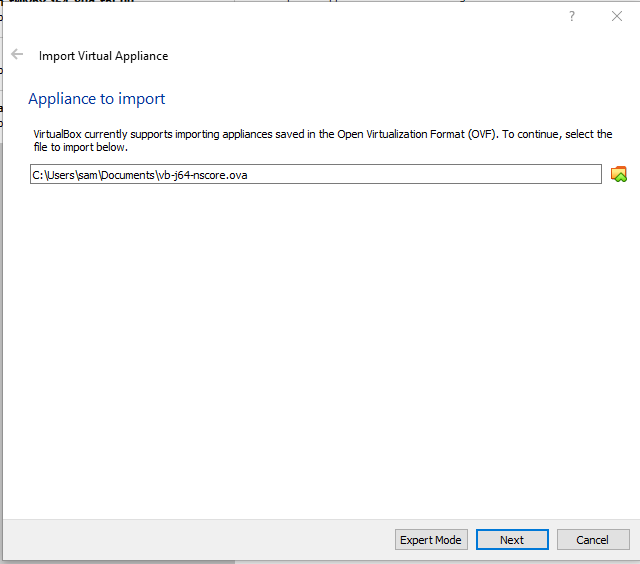
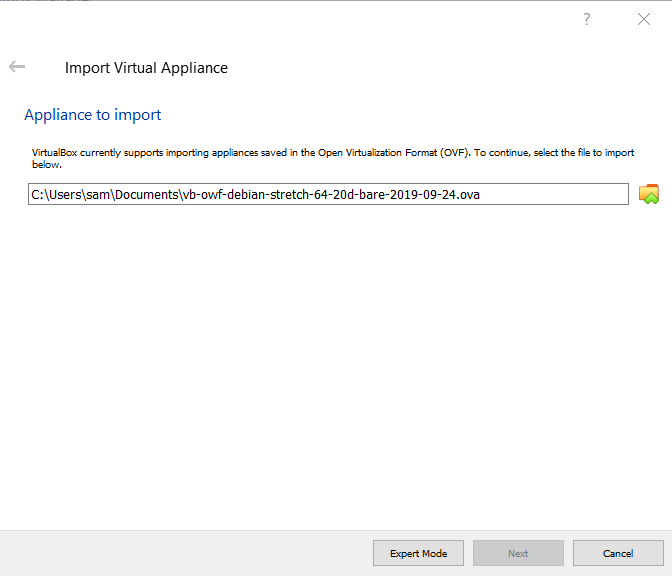
Update to improve appliance import/setup, issue #11

Changed region(s): [[0.0, 0.0, 1.0, 1.0]]

diff --git a/mkdocs-project/docs/vm-config/linux-debian/config-debian.md b/mkdocs-project/docs/vm-config/linux-debian/config-debian.md
@@ -1,11 +1,19 @@
 # VirtualBox / Debian / Configuration #
 
-This page describes minimal configuration that is typically needed for a Linux Debian VM.
+This page describes minimal configuration that is typically needed for a Linux Debian VM
+a single VM user, for example a software developer/tester.
 These steps are performed after an appliance VM is imported.
+It is helpful to configure the VM for a user with as much general configuration as
+possible and then take a snapshot so that the VM can be returned to that state
+if necessary.  If the VM is used for multiple users,
+then a similar approach can be taken and the resulting VM can be exported as a new appliance for wider use.
 
 * [Set Hostname](#set-hostname)
 * [Add User](#add-user)
 * [Install Needed Software](#install-needed-software)
+* [Configure VM for User](#configure-vm-for-user)
+* [Save Snapshot](#save-snapshot)
+* [Additional Configuration](#additional-configuration)
 
 -----------------------
 
@@ -43,33 +51,106 @@ $ hostname
 
 ## Add User
 
-A bare appliance will be distributed with a `root` and other user, as configured by the Linux installation.
-The latter is typically added to the `sudo` group when preparing the appliance
+A bare appliance will be distributed with a `root` and "other user",
+as configured when the VM was configured for an appliance.
+The "other user" is typically added to the `sudo` group when preparing the appliance
 so that administrative tasks can be performed
 using the `sudo` command without logging into root.
-The following example shows how to add a new user `auser` and add to the `sudo` group:
+The root password and information for the "other user" will be provided
+by the creator of the appliance.
+
+The following example shows how to add an additional new user `someuser` and add to the `sudo` group.
+This ensures that the `someuser` can be used for development without
+using the `root` or "other user" that was originally distributed with the VM appliance.
 
 To add a user:
 
 * Login as root or account that has `sudo` privileges.
-* `$ sudo adduser auser`
-	+ in the above `auser` is the login name for the new user
-	+ the command will prompt for additional information
-* `$ sudo adduser auser sudo`
-	+ in the above `auser` is the login name for the new user
+* `$ sudo adduser someuser`
+	+ in the above `someuser` is the login name for the new user
+	+ the command will prompt for additional information including the user name
 
-Once added, the `auser` user account can be used to run commands as root using:
+To additionally grant `sudo` privileges to the user:
+
+* `$ sudo adduser someuser sudo`
+	+ in the above `someuser` is the login name for the new user
+* Logout and log back in so that the Linux session recognizes
+that the user is in the `sudo` group.
+
+Once added, the `someuser` user account can be used to run commands as root using:
 
 ```
 $ sudo some-command
 ```
 
-## Install Needed Software
+## Install Needed Software ##
 
 The VM appliance will have minimal software installed, depending on the requirements for the VM.
 Additional software will need to be installed using `apt-get`.
 For example, to install the `gcc` compiler:
 
 ```
+$ sudo apt-get update
 $ sudo apt-get install gcc
 ```
+
+The first command updates the catalog of software packages and versions,
+so that `apt` commands has up-to-date information to manage software installations.
+
+The following are typical software tools that may be installed during VM configuration
+so that they don't need to be reinstalled after restoring a snapshot.
+Note that these software packages will typically be installed in the system files
+(e.g., `/usr/bin`), whereas the next section describes files that are installed in
+user files (e.g., for the single user that uses the VM for software development).
+Alternatively, the packages can be installed after a more basic snapshot
+is restored.
+
+| **`apt-get` Software Package** | **Description** |
+| -- | -- |
+| `gcc` | C language compiler, used to compile many software tools. |
+| `git` | Version control software. | 
+| `kdiff3` | Software to visually compare differences between files. |
+| `openjdk-8-jdk` | Java 8 standard development kit (or alternate version). |
+
+## Configure VM for User ##
+
+The previous section discussed installing useful software on the VM,
+typically that is needed for one or more software development projects.
+It may also be useful to configure a specific user environment so that such
+configuration is available after a snapshot restore.
+The following is a list of configuration tasks that might be performed.
+
+1. Configure `vim` text editor (or other editor):
+	1. Install a `~/.vimrc` file that has preferred settings
+2. Configure terminal settings:
+	1. For example, after opening a terminal, use
+	***Edit / Profile Preferences / Colors*** and pick a suitable color theme
+	such as ***White on black***.
+	2. Configure screen saver
+3. Configure `~/.bashrc` and `~/.bash_profile`:
+	1. For example add Git prompt and Git completion
+	2. Add configuration for specific development tools
+	3. Define useful command aliases
+4. Configure shared folders for VM:
+	1. See [Shared Folder](../../vm-settings/shared-folders/shared-folders.md) instructions.
+
+## Save Snapshot ##
+
+Once the VM has been configured by installing and configuring system software and
+user environment, a snapshot can be made to preserve the state of the machine.
+This allows the snapshot to be restored to that point,
+for example if the machine has become cluttered with files or corrupted with non-working software.
+See the [Snapshots](../../snapshots/snapshots.md)
+documentation for information on creating and restoring snapshots.
+
+## Additional Configuration ##
+
+The previous sections discuss how to configure system and user files and save a snapshot for
+the basic configuration.
+Once a snapshot has been created, additional configuration may occur.
+For example, clone Git repositories and set up a specific development environment for software project(s).
+For example, for Java development, this may involve installing Java, Eclipse, and other tools
+consistent with the versions needed for the software project.
+These steps can be automated with scripts in the software product repository.
+
+Additional snapshots can be created for different states of the VM, as appropriate.

diff --git a/mkdocs-project/docs/snapshots/snapshots.md b/mkdocs-project/docs/snapshots/snapshots.md
@@ -1,0 +1,78 @@
+# VirtualBox / Snapshots #
+
+* [Overview](#overview)
+* [Saving a Snapshot](#saving-a-snapshot)
+* [Restoring a Snapshot](#restoring-a-snapshot)
+
+------------------
+
+## Overview ##
+
+A VM snapshot is a saved representation of the VM state,
+which allows the VM to be restored to that state.
+This is particularly useful when the work done on a VM after a point can be discarded.
+For example, when testing a software installer prior to software release,
+a VM may be restored to an initial state and then the installer is run and tested.
+
+## Saving a Snapshot ##
+
+To save a snapshot, it is generally best to stop the VM so that files are not actively being modified.
+Then click on the menu on the right side of the VM name in ***VirtualBox Manager*** as shown below and
+select ***Snapshots***.
+
+**<p style="text-align: center;">
+![save-snapshot1](images/save-snapshot1.png)
+</p>**
+
+**<p style="text-align: center;">
+Save (Take) a Snapshot (<a href="../images/save-snapshot1.png">see full-size image</a>)
+</p>**
+
+Next, provide a snapshort name and description, similar to the following.
+
+**<p style="text-align: center;">
+![save-snapshot2](images/save-snapshot2.png)
+</p>**
+
+**<p style="text-align: center;">
+Snapshot Information (<a href="../images/save-snapshot2.png">see full-size image</a>)
+</p>**
+
+The snapshot will then be available to restore.
+Note that snapshots consist of a delta between VM states, not a full save.
+The VirtualBox software maintains the snapshots.
+
+## Restoring a Snapshot ##
+
+A snapshot can be restored by first opening the snapshots tool (***Snapshots*** from
+menu to the right of the VM name).
+Then use the ***Restore*** tool, or right-click on the snapshot to restore and
+select the ***Restore...*** menu item, as shown below.
+
+**<p style="text-align: center;">
+![retore-snapshot1](images/restore-snapshot1.png)
+</p>**
+
+**<p style="text-align: center;">
+Restore a Snapshot (<a href="../images/restore-snapshot1.png">see full-size image</a>)
+</p>**
+
+The following prompt will confirm the restore and also give the option of
+creating a snapshot of the current machine state.
+If the current state is important, save a snapshot.
+Otherwise, unclick the ***Create a snapshot of the current machine state*** choice,
+as shown in the following example.
+It is also important to commit work to Git or other repository and push to the cloud
+so that current files are saved.
+Press ***Restore*** to restore the snapshot to replace the previous VM state.
+Any work done after the snapshot will need to be redone.
+
+**<p style="text-align: center;">
+![retore-snapshot2](images/restore-snapshot2.png)
+</p>**
+
+**<p style="text-align: center;">
+Restore a Snapshot - Confirmation (<a href="../images/restore-snapshot2.png">see full-size image</a>)
+</p>**
+
+The VM can then be started by selecting ***Current State*** in snapshots and the ***Start*** tool/menu.

diff --git a/mkdocs-project/docs/best-practices/best-practices.md b/mkdocs-project/docs/best-practices/best-practices.md
@@ -2,10 +2,19 @@
 
 This page provides best practices when using VirtualBox.
 
+* [Use Snapshots](#use-snapshots)
 * [Organize VMs in Groups](#organize-vMs-in-groups)
 * [Shutting Down Machines](#shutting-down-machines)
+* [Use Shared Folders to Transfer Files](#use-shared-folders-to-transfer-files)
 
 ---------------------
+
+## Use Snapshots ##
+
+Snapshots can save time when recovering from a corrupted VM
+(e.g., installed incompatible software),
+or when repeating software installation and testing.
+See the [Snapshots](../snapshots/snapshots.md) documentation.
 
 ## Organize VMs in Groups ##
 
@@ -28,10 +37,23 @@ This ensures that the files related to the VM are organized and isolated from ot
 Use the ***VirtualBox Manager*** to move VMs between groups.
 Trying to move the files manually tends to cause confusion with the VirtualBox software.
 
-**Need to understand the folders better because a VM can belong to more than one group.**
+**In general, specify new groups when important appliances, and move VMs between
+groups using the ***VirtualBox Manager*** rather than moving VM files using file system tools.**
 
 ## Shutting Down Machines ##
 
 If possible, shut down virtual machines cleanly by using the ***Shutdown*** choice for the login session.
 This helps ensure that the state is saved and data are not list.
+Shutdown can also be started from the command line, for example:
 
+```
+$ sudo shutdown now
+```
+
+## Use Shared Folders to Transfer Files ##
+
+It is often necessary to move files between host and guest VMs.
+A simple way to do this is to create a standard folder, for example on Windows 10 host.
+Then use shared folders on all the VMs mounting the Windows folder.
+Files can then be copied to and from the shared folder, minimizing the need for `ftp`, `scp`,
+or other transfer commands.

diff --git a/mkdocs-project/docs/import-appliance/linux-debian-jessie/import-appliance-debian-jessie.md b/mkdocs-project/docs/import-appliance/linux-debian-jessie/import-appliance-debian-jessie.md
@@ -10,10 +10,11 @@ each of which will install specific software into the VMs created from the appli
 To import a VM appliance, first download or otherwise copy the VM appliance file (`ova`)
 onto the host operating system computer.
 
-Start the ***VirtualBox Manager*** software and select the ***Tools*** at the top of the window.
-Start the import process by selecting the ***Import*** tool.
+Start the ***VirtualBox Manager*** software and select the ***File / Import Appliance*** menu
+(or, select ***Tools*** at the top of the window and then the ***Import*** tool).
 Use the file selector to pick an `ova` file, for example as shown below.
-**Need to update the image to use longer name.**
+Note that the `C:\Users\sam\Documents` folder is the default location where an appliance
+is exported by the ***VirtualBox Manager***.
 
 **<p style="text-align: center;">
 ![import-debian-jessie1](images/import-debian-jessie1.png)
@@ -50,6 +51,7 @@ more specific `vb-user-j64-20d-prod-dev1`, where `prod` indicates the product an
 The default location for VMs will match the value that was previously set for VirtualBox.
 
 * ***Primary Group*** - select an appropriate group from choices, which are taken from the main ***VirtualBox Manager*** groups.
+An existing or new group can be specified, with leading `/`.
 
 **<p style="text-align: center;">
 ![import-debian-jessie3](images/import-debian-jessie3.png)

diff --git a/mkdocs-project/docs/vm-settings/shared-folders/shared-folders.md b/mkdocs-project/docs/vm-settings/shared-folders/shared-folders.md
@@ -34,11 +34,11 @@ Then use the ***Add (plus)*** button on the right to add a shared folder.
 For example, the following mounts a guest operating system folder `/media/vbshare`
 matching the `C:\vbshare` host operating system folder, with the following settings:
 
-* ***Folder Path*** - the host (Windows 10) operating system folder to share
+* ***Folder Path*** - the host (Windows 10) operating system folder to share (must exist, otherwise ***OK*** button will be disabled)
 * ***Folder Name*** - repeat the folder name from above, which will be used to display the folder name in the guest operating system
 * ***Read-only*** - typically do not want this to be set because want to allow files to be written from either direction
 * ***Auto-mount*** - typically want to select because want the shared folder to be configured automatically when the guest operating system starts
-* ***Mount point*** - the guest operating system folder where the shared folder will mount
+* ***Mount point*** - the guest operating system folder where the shared folder will mount (will be created if it does not exist)
 * ***Make Permanent*** - if selected, the shared folder is a ***Machine Folder*** and will be mounted when the VM restarts
 (otherwise will be listed in ***Transient Folders***)
 

diff --git a/mkdocs-project/docs/create-guest/linux-debian-jessie/create-guest-debian-jessie.md b/mkdocs-project/docs/create-guest/linux-debian-jessie/create-guest-debian-jessie.md
@@ -966,6 +966,12 @@ Login again as the normal user.
 
 Check that guest additions have been installed:  `ls /opt`.
 There should be a folder named `/opt/VBoxGuestAdditions-6.0.4` or similar.
+Alternatively, check as follows:
+
+```
+$ lsmod | grep vboxguest
+vboxguest             327680  5 vboxsf
+```
 
 Verify that guest additions are working:
 
